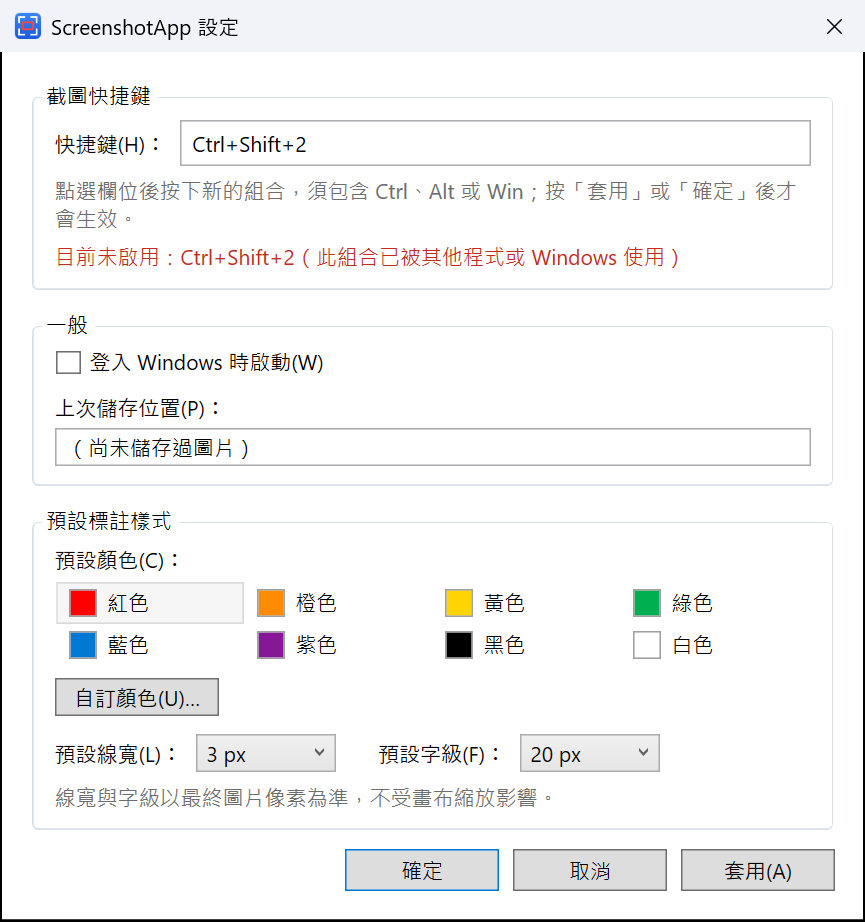
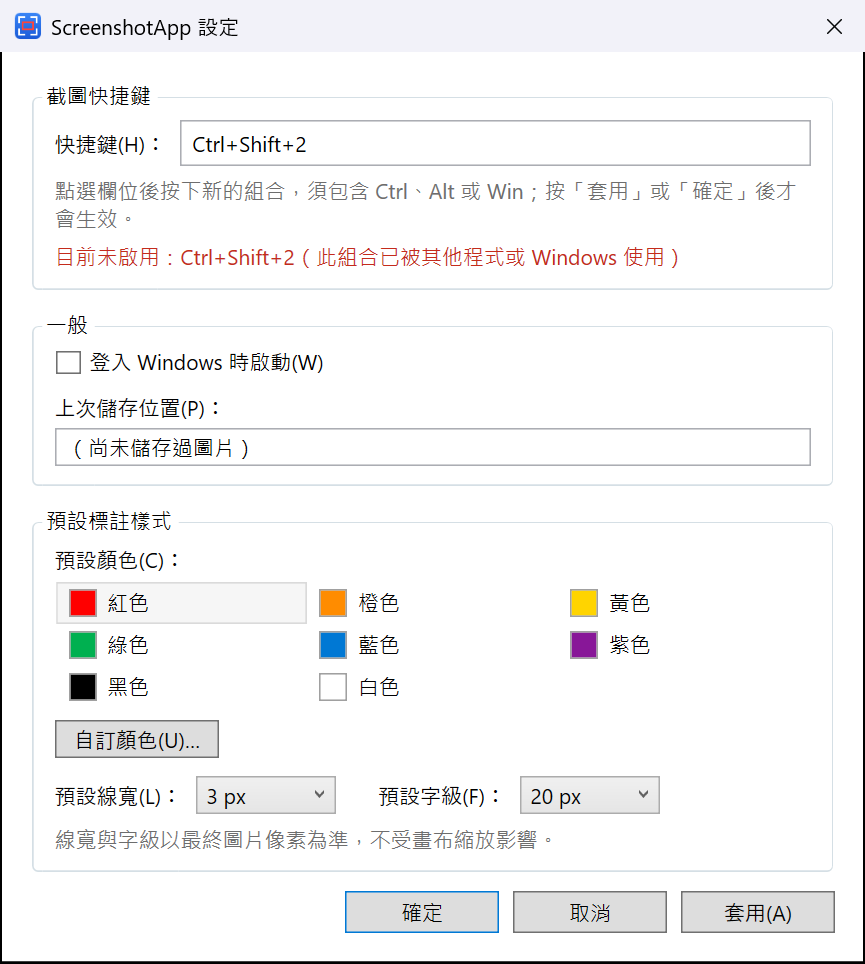
phase-01: 補驗證自訂顏色流程、修正色彩清單截斷、更正決策紀錄
- 煙霧驗證新增 Windows 色彩對話框流程（31 項全數通過）；結果清單改為不截斷輸出
- 設定視窗色彩清單改為 3 欄，避免「自訂 #RRGGBB」被截斷
- 計畫決策更正為「只委派不涉及建置的圖示產生」；handoff 補充風險

diff --git a/ScreenshotApp/Settings/SettingsWindow.xaml b/ScreenshotApp/Settings/SettingsWindow.xaml
@@ -65,7 +65,7 @@
                          ScrollViewer.HorizontalScrollBarVisibility="Disabled">
                     <ListBox.ItemsPanel>
                         <ItemsPanelTemplate>
-                            <UniformGrid Columns="4" />
+                            <UniformGrid Columns="3" />
                         </ItemsPanelTemplate>
                     </ListBox.ItemsPanel>
                     <ListBox.ItemContainerStyle>
@@ -88,7 +88,7 @@
                         </DataTemplate>
                     </ListBox.ItemTemplate>
                 </ListBox>
-                <Button HorizontalAlignment="Left" Margin="0,6,0,0" Padding="10,2"
+                <Button x:Name="CustomColorButton" HorizontalAlignment="Left" Margin="0,6,0,0" Padding="10,2"
                         Content="{res:Str Settings_CustomColor}"
                         ToolTip="{res:Str Settings_CustomColorToolTip}"
                         Click="CustomColorButton_Click" />

diff --git a/.planning/2026-10-18-screenshotapp-v1/handoffs/phase-01-platform-foundation.md b/.planning/2026-10-18-screenshotapp-v1/handoffs/phase-01-platform-foundation.md
@@ -43,23 +43,26 @@
 |------|------|
 | `dotnet build ScreenshotApp.sln -c Release` | 0 error、0 warning |
 | `dotnet test ScreenshotApp.sln -c Release` | 114 passed、0 failed |
-| 煙霧驗證（Release exe，Windows 11 Pro 10.0.26200，單一顯示器 3456×2160 @175%） | 28 項全數通過，最後連續 7 次無失敗 |
+| 煙霧驗證（Release exe，Windows 11 Pro 10.0.26200，單一顯示器 3456×2160 @175%） | 31 項全數通過（含自訂顏色流程），連續 4 次無失敗 |
 | 程式碼註解掃描（不得引用編號或文件路徑） | 無違規 |
 
-證據：`docs/evidence/phase-01/`（結果清單與 4 張截圖）；細節見 `docs/ACCEPTANCE.md`。
+證據：`docs/evidence/phase-01/`（結果清單與 5 張截圖）；細節見 `docs/ACCEPTANCE.md`。
 
-煙霧驗證過程中遇到的測試工具問題（皆已修正，非產品缺陷）：從桌面根節點搜尋 UI Automation 太慢、設定視窗可見後內容尚未就緒、`SetFocus` 偶爾未生效（已加重試，且未取得焦點時不送出按鍵）、截圖遇到開窗動畫或視窗被遮擋（改用 `PrintWindow`）、WinForms 下拉選單不支援 `PrintWindow`（選單改由螢幕擷取）。
+煙霧驗證發現並修正的產品問題：系統匣圖示先於快捷鍵註冊出現（改為註冊後顯示）；設定視窗色彩清單 4 欄時「自訂 #12ABEF」被截斷（改為 3 欄，8 個常用色加自訂色排成 3×3）。
+
+煙霧驗證過程中遇到的測試工具問題（皆已修正，非產品缺陷）：從桌面根節點搜尋 UI Automation 太慢、設定視窗可見後內容尚未就緒、`SetFocus` 偶爾未生效（已加重試，且未取得焦點時不送出按鍵）、截圖遇到開窗動畫或視窗被遮擋（改用 `PrintWindow`）、WinForms 下拉選單不支援 `PrintWindow`（選單改由螢幕擷取）、受控 UI Automation 用戶端沒有 Win32 控制項代理（Windows 色彩對話框改以視窗訊息操作）。
 
 ## 4. 風險
 
 - **混合 DPI 無法在本機驗證**：本機只有一顆 175% 顯示器；Phase 2 的覆蓋層定位需靠單螢幕多種縮放與使用者的 MT-04／MT-05。
 - **系統通知可能被「專注」模式抑制**：快捷鍵失敗原因同時顯示在工具提示與設定視窗，不只依賴通知。
 - **WPF Label 的 UI Automation 樹含原始存取鍵文字**：UI Automation 讀到同時有「快捷鍵(H)：」與「快捷鍵(_H)：」兩個文字元素，螢幕閱讀器可能多唸一次；列入 P5-01 操作性總檢。
-- **煙霧腳本會操作真實桌面**：執行期間設定視窗會短暫出現，並暫時寫入／移除 `HKCU\...\Run`（結束時還原）。
+- **煙霧腳本會操作真實桌面**：執行期間設定視窗與色彩對話框會短暫出現，並暫時寫入／移除 `HKCU\...\Run`（結束時還原）。
+- **設定檔讀取失敗後再套用會覆寫原檔**：啟動時若設定檔暫時無法讀取（例如被鎖定），本次使用預設值並提示；之後使用者在設定視窗按「套用」，寫入的是畫面上的值，原檔中其他欄位會被取代。情境罕見且有提示，暫不處理。
 
 ## 5. 後續工作（Phase 2）
 
-1. 建立 `feature/phase-02-capture-selection`，Phase 2 → `in_progress`，先寫 ADR-0007～0009。
+1. 從 `main` 建立 `feature/phase-02-capture-selection`（`feature/phase-01-platform-foundation` 已合併，保留但不要從它分出），Phase 2 → `in_progress`，先寫 ADR-0007～0009。
 2. P2-04 需一併實作 `SafeHdc`／`SafeHBitmap`／`SafeGdiObject` 與 `SafeHandleTests`。
 3. P2-08 需實作 `AppStateMachine`（含 `AppStateMachineTests`），並把 `HotkeyService.Pressed` 與新增的系統匣「開始截圖」接到同一個截圖入口（目前 `AppController` 尚未訂閱 `Pressed`）。
 4. 可重用：`TestSupport/StaRunner`、`TempDirectory`、`RepositoryPaths`；煙霧腳本的 Win32 + UI Automation 寫法（含等待內容就緒、只在取得焦點時送鍵、`PrintWindow` 截圖）。

diff --git a/.planning/2026-10-18-screenshotapp-v1/task_plan.md b/.planning/2026-10-18-screenshotapp-v1/task_plan.md
@@ -125,7 +125,7 @@ Checklist（格式：ID｜項目｜依賴｜Effort｜委派｜驗收）
 2. 建置 0 error、測試全綠；無占位功能。
 3. 使用者需驗證：MT-01（首次啟動只進匣、重複啟動、退出重啟）、MT-02 的「被占用提示」部分；MT-02「在桌面／瀏覽器／PowerPoint 中觸發截圖」於 Phase 2 控制點驗證。
 
-**Handoff**：`handoffs/phase-01-platform-foundation.md`（2026-10-18；114 個自動化測試通過、煙霧驗證 28 項全數通過）。
+**Handoff**：`handoffs/phase-01-platform-foundation.md`（2026-10-18；114 個自動化測試通過、煙霧驗證 31 項全數通過）。
 - **Status:** complete
 
 ### Phase 2: 截圖與區域選取（FR-07～FR-13）
@@ -349,7 +349,7 @@ Checklist
 | DPI 感知僅在非 PerMonitorV2 時記錄，驗證改用外部查詢 | NFR-09 日誌只保留錯誤；`GetDpiAwarenessContextForProcess` 可區分 PMv1／PMv2 |
 | 快捷鍵註冊以外部 `RegisterHotKey` 衝突檢查驗證；MT-02 觸發部分移至 Phase 2 | Phase 1 尚無截圖動作，不以日誌或假提示冒充 |
 | 收尾儀式改為先標記 complete 並 attest，再 commit | 確保 commit 內容、磁碟與 attestation 一致 |
-| Phase 1 不委派 Subagent | 單一專案並行 `dotnet build/test` 會造成 obj/bin 衝突；可委派項目規模小 |
+| Phase 1 只委派不涉及建置的圖示產生（P1-14），其餘自行實作 | 單一專案並行 `dotnet build/test` 會造成 obj/bin 衝突；圖示產生不建置專案，可安全並行 |
 | 系統匣圖示在快捷鍵註冊之後才顯示 | 圖示出現即代表常駐服務已就緒，消除外部檢查與註冊之間的時間窗 |
 | 無法開啟既有具名 Mutex 時視為已有執行個體 | 以系統管理員身分執行的既有執行個體會讓一般權限開啟失敗；避免啟動當機與重複圖示 |
 | 煙霧驗證腳本納入 `tools/smoke/`，證據存於 `docs/evidence/phase-NN/` | Phase 5 需以發佈版重跑各階段腳本；scratchpad 會隨工作階段消失 |
@@ -366,6 +366,8 @@ Checklist
 | 煙霧驗證：從桌面根節點搜尋 UI Automation 太慢、設定視窗內容未就緒、`SetFocus` 偶爾未生效 | 2 | 先以 Win32 找視窗再搜尋子樹、等待內容就緒、焦點重試且未取得焦點時不送出按鍵 |
 | 煙霧驗證：截圖遇開窗動畫或視窗被遮擋；WinForms 下拉選單不支援 `PrintWindow` | 2 | 延遲後以 `PrintWindow` 擷取視窗；選單改由螢幕擷取 |
 | 既有具名 Mutex 無法開啟時拋出 `UnauthorizedAccessException`（自我審查發現） | 1 | 以 `MutexAcl` 測試重現後捕捉，視為已有執行個體 |
+| 決策紀錄寫成「Phase 1 不委派 Subagent」，與實際委派圖示產生不符（advisor 審查發現） | 1 | 更正決策列並重新 attest |
+| 自訂顏色流程沒有任何驗證；補驗證時發現色彩清單 4 欄會截斷「自訂 #12ABEF」 | 1 | 煙霧腳本以視窗訊息操作 Windows 色彩對話框；清單改為 3 欄 |
 
 ## Notes
 

diff --git a/docs/ACCEPTANCE.md b/docs/ACCEPTANCE.md
@@ -32,7 +32,7 @@ Phase 1 其他自動化測試：
 
 - 腳本：[tools/smoke/Invoke-Phase1Smoke.ps1](../tools/smoke/Invoke-Phase1Smoke.ps1)（實際啟動 Release 建置；以 Win32 與 UI Automation 操作；測試前後還原設定檔與 Run 登錄值）
 - 環境：Windows 11 Pro 10.0.26200，單一顯示器 3456×2160、縮放 175%
-- 結果：**28 項全數通過**；最後連續 7 次執行皆無失敗。完整輸出：[evidence/phase-01/phase1-results.txt](evidence/phase-01/phase1-results.txt)
+- 結果：**31 項全數通過**；加入自訂顏色檢查後連續 4 次執行皆無失敗（先前 28 項版本另有連續 7 次無失敗）。完整輸出：[evidence/phase-01/phase1-results.txt](evidence/phase-01/phase1-results.txt)
 
 | 檢查 | 結果 |
 |------|------|
@@ -46,6 +46,7 @@ Phase 1 其他自動化測試：
 | 快捷鍵已被其他程式占用時仍常駐，設定視窗顯示原因 | 通過 |
 | 設定視窗：拒絕缺少修飾鍵的組合、變更快捷鍵立即生效並寫入設定檔、新組合衝突時保留原設定並提示、改回預設並以「確定」關閉 | 通過 |
 | 設定視窗切換「登入 Windows 時啟動」：寫入／移除 `HKCU\...\Run` 的帶引號路徑 | 通過 |
+| 自訂顏色：開啟 Windows 色彩對話框、輸入 RGB 後確定，清單出現並選取「自訂 #12ABEF」且寫入設定檔；再選回「紅色」 | 通過 |
 | 過程中沒有新的錯誤記錄 | 通過 |
 
 截圖：
@@ -53,6 +54,7 @@ Phase 1 其他自動化測試：
 - 設定視窗：[evidence/phase-01/phase1-settings.png](evidence/phase-01/phase1-settings.png)
 - 快捷鍵被占用時的狀態：[evidence/phase-01/phase1-settings-hotkey-in-use.png](evidence/phase-01/phase1-settings-hotkey-in-use.png)
 - 變更快捷鍵遇到衝突時的提示：[evidence/phase-01/phase1-settings-rebind-conflict.png](evidence/phase-01/phase1-settings-rebind-conflict.png)
+- 自訂顏色加入清單並選取：[evidence/phase-01/phase1-settings-custom-color.png](evidence/phase-01/phase1-settings-custom-color.png)
 - 系統匣選單：[evidence/phase-01/phase1-tray-menu.png](evidence/phase-01/phase1-tray-menu.png)
 
 腳本無法確認、需要使用者目視的部分：系統匣圖示的外觀與位置、快捷鍵被占用時的系統通知（可能被「專注」模式抑制）、從檔案總管雙擊執行檔時設定視窗是否來到最前景。

diff --git a/.planning/2026-10-18-screenshotapp-v1/findings.md b/.planning/2026-10-18-screenshotapp-v1/findings.md
@@ -68,3 +68,7 @@
 - WPF `Label` 的 UI Automation 樹同時出現去除存取鍵與含底線的兩個文字元素（例如「快捷鍵(H)：」「快捷鍵(_H)：」），列入操作性總檢。
 - `System.Threading.AccessControl`（`MutexAcl`）位於 WindowsDesktop 共享框架，測試可直接建立拒絕存取的具名 Mutex。
 - `System.Drawing.Icon(stream, 256, 256)` 在 ICO 同時有 64 與 256 項目時回傳 64（以目錄中的 0 計算尺寸差）；需要 256 時改用 `Icon.ExtractIcon` 或 WPF 解碼。
+- 受控的 `System.Windows.Automation` 用戶端（pwsh 7／.NET）沒有載入 Win32 控制項代理：Windows 色彩對話框（`#32770`）內的編輯框與按鈕只呈現為沒有任何操作模式的 Pane；自動化時改用 `GetDlgItem` + `WM_SETTEXT`（編輯框會送出 `EN_CHANGE`）與 `WM_COMMAND IDOK`。色彩對話框的紅、綠、藍欄位識別碼為 706～708。
+- 本機 Windows 介面語言為英文：系統對話框（例如色彩對話框）顯示英文，與本程式的繁中介面無關。
+- PowerShell 把 `$null` 傳給 .NET `string` 參數時會轉成空字串；Add-Type 的 C# 輔助方法需以 `string.IsNullOrEmpty` 判斷。
+- 在 C: 槽 scratchpad 的檔案上，從 E: 槽工作目錄執行 `sed -i` 會因跨磁碟重新命名失敗；改用 Edit 工具或 Python。

diff --git a/.planning/2026-10-18-screenshotapp-v1/progress.md b/.planning/2026-10-18-screenshotapp-v1/progress.md
@@ -93,3 +93,11 @@
 
 ### Next
 - Phase 1 已完成並合併回 `main`。等待使用者回報 MT-01、MT-02（占用提示）並授權 Phase 2。
+
+### 控制點前補正（advisor 審查後）
+- 更正計畫決策列：Phase 1 只委派不涉及建置的圖示產生（原寫「不委派」與事實不符），重新 attest。
+- 自訂顏色（`ColorPicker`）原本沒有任何驗證：煙霧腳本新增「開啟 Windows 色彩對話框 → 以視窗訊息填入 RGB → 確定 → 清單選取自訂色並寫入設定檔 → 選回紅色」。
+- 截圖證據發現色彩清單 4 欄時「自訂 #12ABEF」被截斷，改為 3 欄（3×3）。
+- 結果清單改為逐行輸出（不截斷），執行檔以儲存庫相對路徑記錄。
+- handoff 補充風險：設定檔讀取失敗後再套用會覆寫原檔。
+- 煙霧驗證：31 項全數通過，連續 4 次無失敗；`dotnet test` 114 passed；證據更新於 `docs/evidence/phase-01/`。
